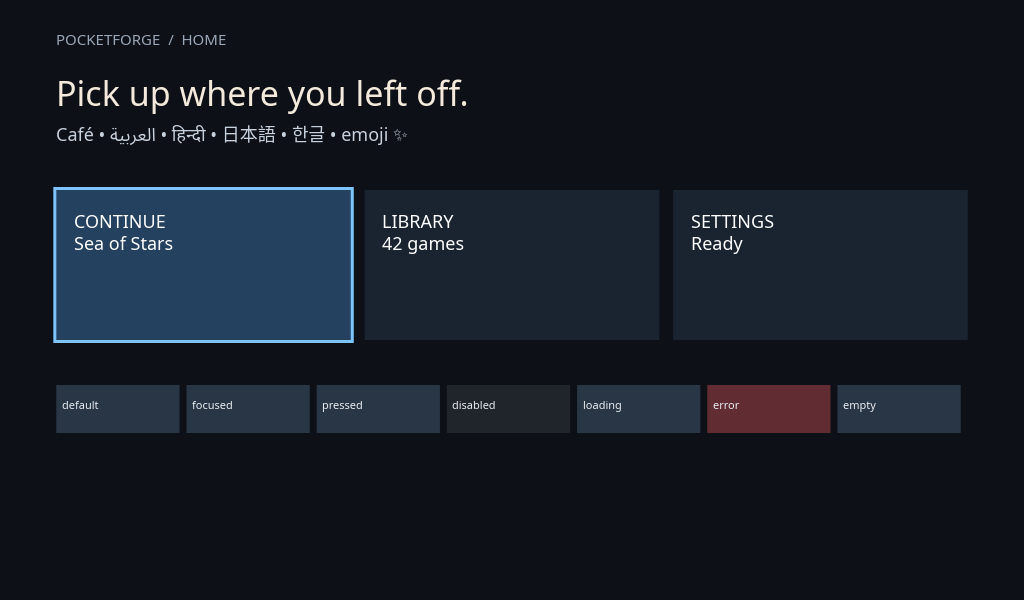
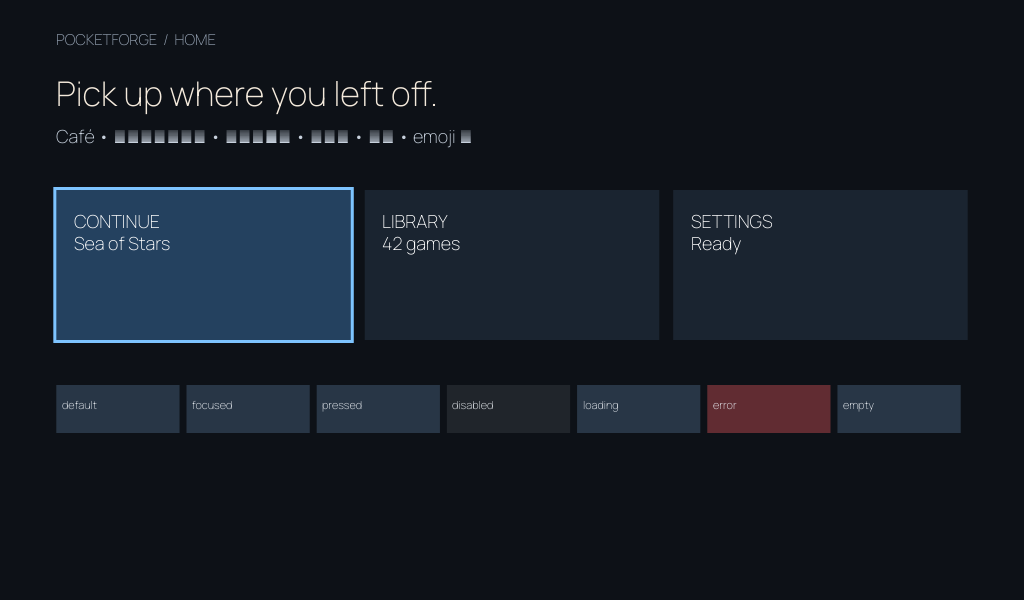
tsp-op5a.38: Updated the spike to require Rust 1.85, use a fixed-locale empty
Authored by the Codex execution lane (infra-260 S1, bead tsp-op5a.38).

Codex-Lane: infra-260
Bead: tsp-op5a.38

diff --git a/spikes/render-text/src/main.rs b/spikes/render-text/src/main.rs
@@ -1,4 +1,4 @@
-use cosmic_text::{Attrs, Buffer, Color, Family, FontSystem, Metrics, Shaping, SwashCache};
+use cosmic_text::{fontdb, Attrs, Buffer, Color, Family, FontSystem, Metrics, Shaping, SwashCache};
 use std::{env, fs, hint::black_box, path::Path, time::Instant};
 use tiny_skia::{Color as SkColor, Paint, Pixmap, Rect, Transform};
 
@@ -71,15 +71,16 @@ fn text(
 }
 
 fn render(path: &Path, w: u32, h: u32, scale: f32) {
-    let mut fonts = FontSystem::new();
+    // Start empty: FontSystem::new() discovers host fonts, which would make both
+    // fallback behavior and the committed PNGs depend on the machine running this.
+    let mut db = fontdb::Database::new();
     for p in [
         "fonts/manrope/Manrope[wght].ttf",
         "fonts/fraunces/Fraunces[SOFT,WONK,opsz,wght].ttf",
     ] {
-        fonts
-            .db_mut()
-            .load_font_data(fs::read(p).expect("vendored font"));
+        db.load_font_data(fs::read(p).expect("vendored font"));
     }
+    let mut fonts = FontSystem::new_with_locale_and_db("en-US".into(), db);
     let mut cache = SwashCache::new();
     let mut pm = Pixmap::new(w, h).unwrap();
     pm.fill(SkColor::from_rgba8(13, 17, 23, 255));

diff --git a/spikes/render-text/RESULTS.md b/spikes/render-text/RESULTS.md
@@ -13,9 +13,9 @@ performance claims. A133 measurement is pending.** No device or lab host was acc
 
 | Criterion | Source-owned cosmic-text/swash + tiny-skia | SDL3 + SDL3_ttf bounded toolkit |
 |---|---|---|
-| Deterministic headless output | PASS: two fresh 1280x720 runs have identical SHA-256 `1d0acc…32ac4` | Feasible with software surface, but backend/version inputs add control surface |
-| Image toolchain / Rust 1.77 / build | PASS: pure Rust crate, locked dependencies, release build | C/C++ library and SDL build integration; absent on proof host |
-| Licensed committed fonts, UTF-8 shaping/fallback | PASS with honest limit: OFL Manrope/Fraunces committed; Cosmic advanced shaping; CJK/Hangul tofu because no committed CJK font | HarfBuzz-backed shaping is capable; same committed coverage limitation |
+| Deterministic headless output | PASS: two fresh vendored-only 1280x720 runs have identical SHA-256 `dc753c…ec43c` | Feasible with software surface, but backend/version inputs add control surface |
+| Image toolchain / Rust 1.85 / build | PASS: pure Rust crate; locked release build reproduced with Rust 1.85.0 (the locked graph's true floor) | C/C++ library and SDL build integration; absent on proof host |
+| Licensed committed fonts, UTF-8 shaping/fallback | PASS with honest limit: an empty font database is loaded only with committed OFL Manrope/Fraunces; Cosmic advanced shaping; unsupported scripts/emoji render tofu | HarfBuzz-backed shaping is capable; same committed coverage limitation |
 | 200% reflow + seven states | PASS: committed 200% frame and all seven labelled component states | Technically feasible; would duplicate this scene/layout work in toolkit widgets unless restricted to raster host |
 | Offscreen + arm64 estimates / later instrumentation | PASS: offscreen executable, cross-build recipe; exact A133 plan below | Offscreen feasible; larger native dependency/cross-build surface |
 | Offscreen host | PASS: direct pixmap | PASS: software surface |
@@ -27,33 +27,35 @@ performance claims. A133 measurement is pending.** No device or lab host was acc
 
 | Artifact | SHA-256 |
 |---|---|
[6 lines of base64/hex data omitted]
 
 The layout derives all horizontal dimensions from width. At 200%, Cosmic Text wraps
 inside the same constraints; this intentionally exposes clipping pressure rather than
 shrinking text. The mixed fixture includes Latin accents, Arabic, Devanagari, Japanese,
-Hangul, and emoji. CJK fallback is **not claimed**: the flagship set lacks those glyphs.
+Hangul, and emoji. The font database starts empty and loads only the two vendored files,
+so unsupported Arabic/Devanagari/CJK/Hangul/emoji glyphs render tofu rather than leaking
+host fonts. Coverage outside the vendored files is **not claimed**.
 
 ## Resource estimates and D-1 / D-2
 
 Proof host: x86_64 Linux, optimized release build. Ten cold render processes completed
-in 0.32 s total (~32 ms/render including process/font load/PNG encode); maximum RSS was
-20,964 KiB. The isolated benchmark high-water RSS was 24,484 KiB (two source frames,
+in 0.10 s total (~10 ms/render including process/font load/PNG encode); maximum RSS was
+12,672 KiB. The isolated benchmark high-water RSS was 24,376 KiB (two source frames,
 output, shadow, and two page buffers coexist).
 
 **D-1 two-buffer 1280x720 crossfade:** 20 full frames per alpha step: alpha 0/64/128/
-192/255 measured 3.656/3.494/3.367/3.506/3.368 ms per frame respectively. This is a
-memory-resident blend estimate, excluding presentation. Estimated ceiling is ~274–297
+192/255 measured 2.919/2.947/2.958/2.824/2.835 ms per frame respectively. This is a
+memory-resident blend estimate, excluding presentation. Estimated ceiling is ~338–354
 fps on this x86 host; it does not imply the A133 rate.
 
 **D-2 shelf glide:** the retained shadow + alternating two-page accumulated-union copy
-measured 0.059/0.031/0.067/0.101/0.242 ms for current damage bands 16/64/160/320/720 px
+measured 0.050/0.037/0.060/0.089/0.138 ms for current damage bands 16/64/160/320/720 px
 (steady accumulated maxima 32/128/320/640/720 px). Thus the copy-only viewport-width
-damage rate exceeds 4,500 fps even at full height on this host; actual shelf glide is
+damage rate exceeds 7,200 fps even at full height on this host; actual shelf glide is
 paint-bound. The conservative representative full-frame source paint estimate is the
-~32 ms end-to-end render above (~31 fps including font load and PNG encode). These two
+~10 ms end-to-end render above (~100 fps including font load and PNG encode). These two
 numbers bracket sustained shelf glide; F03 should cache shaping/glyphs and measure its
 real scene rather than treating either bound as a product budget. `bench-x86_64.txt`
 contains raw output.

diff --git a/spikes/render-text/README.md b/spikes/render-text/README.md
@@ -7,7 +7,8 @@ runtime workspace or wire a `FrameHost`.
 
 ## Reproduce
 
-From this directory, with Rust 1.77 or newer:
+From this directory, with Rust 1.85 or newer (the minimum required by the committed
+lockfile):
 
 ```sh
 ./run.sh
